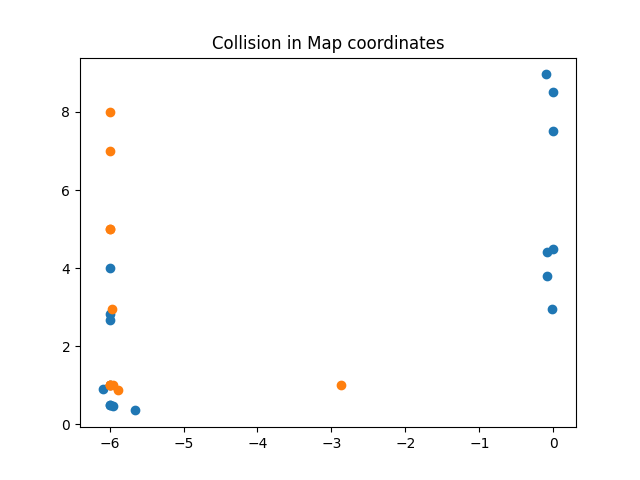
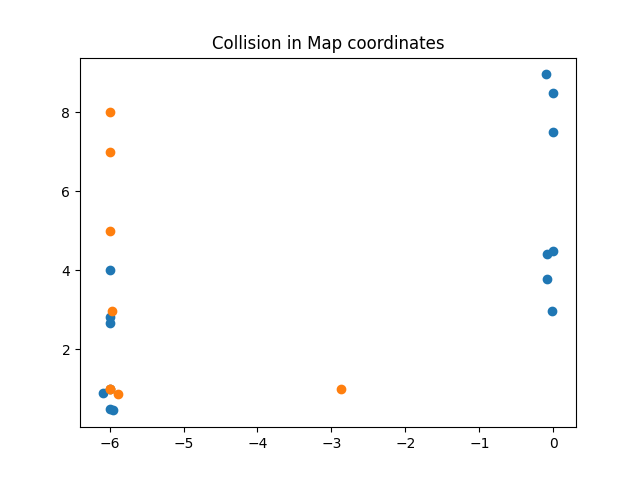
update

diff --git a/gr_experiments/2022/plot_collisions.py b/gr_experiments/2022/plot_collisions.py
@@ -95,8 +95,8 @@ def filter_collisions(odom, collisions):
                 idx = o
                 vx = velx
                 closest_time = np.fabs(odom_time - collision_time)
-        authenticity.append(np.fabs(vx)>0.1)
-        if np.fabs(vx)>0.1:
+        authenticity.append(np.fabs(vx)>0.2)
+        if np.fabs(vx)>0.2:
             average_speed.append(vx)
 
     assert len(collisions) == len(authenticity)
@@ -119,14 +119,22 @@ def process_states(states, filename):
         ind1 = map_idx[states[i,1]]
         ind2 = map_idx[states[i,2]]    
         acc[ind1, ind2] += 1
-    
+   
+    suma = np.sum(acc)
     fig, ax = plt.subplots()
-    x_normed = acc#normalize(acc, axis=1, norm='l1')
+    x_normed = acc/suma #normalize(acc, axis=0, norm='l2')
+    #x_normed = acc/norm  # normalized matrix
+    #normalize(acc, axis=0, norm='l1')
     # Using matshow here just because it sets the ticks up nicely. imshow is faster.
-    ax.matshow(x_normed, cmap='prism')
+    alpha = ['Lethal', 'Danger', 'Warning', 'Safe','Unknown']
+
+    ax.set_xticklabels(['']+alpha)
+    ax.set_yticklabels(['']+alpha)
+    ax.matshow(x_normed, cmap='Pastel1')
+    #ax.set_xlabel(['Lethal', 'Danger', 'Warning', 'Safe', 'Unknown'])
 
     for (i, j), z in np.ndenumerate(x_normed):
-        ax.text(j, i, '{:0.1f}'.format(z), ha='center', va='center')
+        ax.text(j, i, '{:0.3f}'.format(z), ha='center', va='center')
 
     #plt.colorbar()
     #plt.show()
